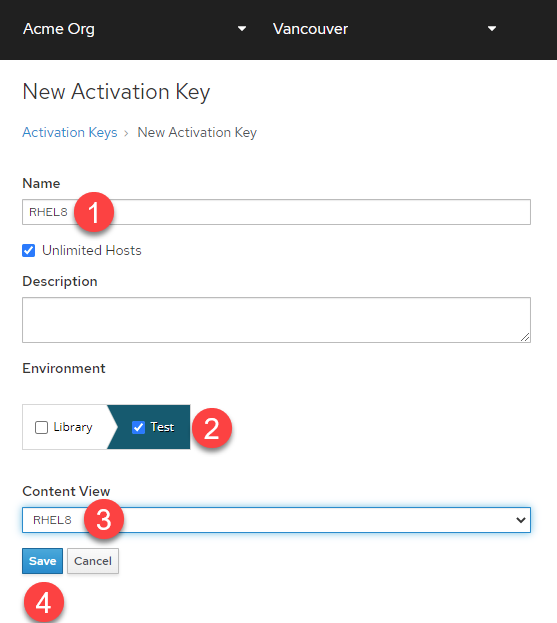
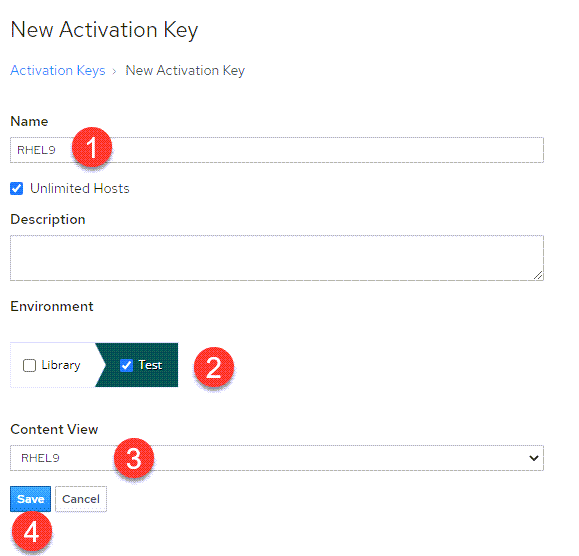
another update

diff --git a/satellite-basics/08-installsoftware/assignment.md b/satellite-basics/08-installsoftware/assignment.md
@@ -31,7 +31,11 @@ timelimit: 1
 ---
 <!-- markdownlint-disable MD033 -->
 
-> preamble on why we're using host collections
+We'll install software on our hosts using a Host Collection.
+
+A host collection is a group of content hosts. This feature enables you to perform the same action on multiple hosts at once. These actions can include the installation, removal, and update of packages and errata, change of assigned life cycle environment, and change of Content View. You can create host collections to suit your requirements, and those of your company. For example, group hosts in host collections by function, department, or business unit.
+
+For more information on Host Collections, please see [Configuring Host Collections](https://access.redhat.com/documentation/en-us/red_hat_satellite/6.11/html/managing_hosts/configuring_host_collections_managing-hosts).
 
 First we'll create a Host Collection. Click on `Host Collections` in the menu.
 
@@ -60,7 +64,7 @@ Select the hosts we want to install `tmux` on, then click `Add Selected`.
 
 ![add selected](../assets/hcaddrhel9hosts.png)
 
-You'll be taken back to the `Host Collections` menu. Click on the host collection we just created.
+Go back to the `Host Collections` menu. Click on the host collection we just created.
 
 ![click on tmux installation](../assets/clickontmuxinstallation.png)
 
@@ -89,5 +93,6 @@ When the installation has completed, click on the terminal of `rhel1` or `rhel2`
 ```bash
 tmux
 ```
+tmux is a terminal multiplexer. It lets you switch easily between several programs in one terminal, detach them (they keep running in the background) and reattach them to a different terminal. [tmux documentation is available here](https://github.com/tmux/tmux/wiki).
 
 ![tmux](../assets/2022-08-10_09-02-46.gif)

diff --git a/satellite-basics/05-activationkey/assignment.md b/satellite-basics/05-activationkey/assignment.md
@@ -31,7 +31,11 @@ timelimit: 2400
 ---
 <!-- markdownlint-disable MD033 -->
 
-An Activation Key is required to register a host to Satellite. To create one, navigate to the `Activation Keys` menu.
+Activation keys provide a method to automate system registration and subscription attachment. You can create multiple keys and associate them with different environments and Content Views. For example, you might create a basic activation key with a subscription for Red Hat Enterprise Linux workstations and associate it with Content Views from a particular environment.
+
+You can use activation keys during content host registration to improve the speed, simplicity and consistency of the process. Note that activation keys are used only when hosts are registered. If changes are made to an activation key, it is applicable only to hosts that are registered with the amended activation key in the future. The changes are not made to existing hosts.
+
+To create an activation key, navigate to the `Activation Keys` menu.
 
 ![akmenu](../assets/akmenu.png)
 
@@ -40,5 +44,7 @@ Click on `Create Activation Key`.
 ![createak](../assets/createak.png)
 
 We'll name this activation key `RHEL9`, select the `Test` environment, select the `RHEL9` content view and then click `save`.
+
+> __NOTE__: The name of the activation key will be used in the next step of this lab to add hosts. The names must match or the hosts will not be registered.
 
 ![akcreation](../assets/akcreation.png)

diff --git a/satellite-basics/09-conclusion/assignment.md b/satellite-basics/09-conclusion/assignment.md
@@ -1,0 +1,37 @@
+---
+slug: conclusion
+type: challenge
+title: Conclusion
+teaser: Yay we've reached the end.
+tabs:
+- title: Satellite Server
+  type: terminal
+  hostname: satellite
+- title: Satellite Web UI
+  type: external
+  url: https://satellite.${_SANDBOX_ID}.instruqt.io
+- title: rhel1
+  type: terminal
+  hostname: rhel1
+- title: rhel1 Web Console
+  type: external
+  url: https://rhel1.${_SANDBOX_ID}.instruqt.io:9090
+- title: rhel2
+  type: terminal
+  hostname: rhel2
+- title: rhel2 Web Console
+  type: external
+  url: https://rhel2.${_SANDBOX_ID}.instruqt.io:9090
+difficulty: basic
+timelimit: 1
+---
+<!-- markdownlint-disable MD033 -->
+
+You've reached the conclusion of this lab.
+
+For more information on Red Hat Satellite, please visit the [Red Hat Satellite landing page](https://www.redhat.com/en/technologies/management/satellite).
+
+Here are some handy links to other tasks you can perform with Red Hat Satellite.
+
+* [Learn how to apply RHEL System Roles with Red Hat Satellite](https://www.redhat.com/en/blog/satellite-host-configuration-rhel-system-roles-powered-ansible). This operation can be performed in this lab.
+* [Use Satellite to perform convert2rhel bulk operations](https://access.redhat.com/documentation/en-us/red_hat_satellite/6.11/html/managing_content/converting-a_host-with-convert2rhel_content-management). This operation cannot be performed in this lab since there are no non-rhel hosts.

diff --git a/satellite-basics/04-contentview/assignment.md b/satellite-basics/04-contentview/assignment.md
@@ -31,6 +31,12 @@ timelimit: 2400
 ---
 <!-- markdownlint-disable MD033 -->
 
+In this challenge we'll create a Content View. Red Hat Satellite uses Content Views to create customized repositories from the repositories. You can use Content Views to define which software versions a particular environment uses. For example, a Production environment might use a Content View containing older package versions, while a Development environment might use a Content View containing newer package versions.
+
+Since this is a basic introduction to Satellite, we will only create a Content View for the purpose of providing content to RHEL hosts, without regard for Test, Production lifecycle use cases.
+
+To learn more about Content Views and how to use them to manage content for different lifecycle environments, please see [Managing Content Views](https://access.redhat.com/documentation/en-us/red_hat_satellite/6.11/html/managing_content/managing_content_views_content-management) in Satellite documentation.
+
 Click on `Content Views`.
 
 ![contentview](../assets/contentview.png)

diff --git a/satellite-basics/06-registerhost/assignment.md b/satellite-basics/06-registerhost/assignment.md
@@ -33,7 +33,7 @@ timelimit: 2400
 
 Now we'll register the hosts `rhel1` and `rhel2` to our Satellite server. We'll use the command line interface to generate a registration command in this lab. It is also possible to generate a registration command from the Satellite WebUI but due to the limitations of DNS in this lab environment, we'll use the cli utility `hammer` to simplify the process.
 
-Click on the Satellite tab.
+Click on the `Satellite Server` tab.
 
 ![satellite tab](../assets/satellite-tab.png)
 
@@ -59,7 +59,7 @@ When your host is registered, the output will resemble something similar below.
 
 ![registered](../assets/registrationofhost.png)
 
-Repeat the process with `rhel2`.
+Register `rhel2` with the Satellite server by pasting the registration command into the CLI of `rhel2`.
 
 In the Satellite Web UI, navigate to `All Hosts` to view the newly registered host.
 

diff --git a/satellite-basics/07-updateerratum/assignment.md b/satellite-basics/07-updateerratum/assignment.md
@@ -73,3 +73,11 @@ To return to the job status page, click `Back to Job`.
 When the job is complete, the page will look like this.
 
 ![complete job status](../assets/completejobstatus.png)
+
+Go to Hosts > All Hosts.
+
+![all hosts](../assets/allhosts.png)
+
+All hosts managed by Satellite should display in a green font signifying all hosts are up to date and there are no errors logged.
+
+![green](../assets/green.png)

diff --git a/satellite-basics/02-syncrepos/assignment.md b/satellite-basics/02-syncrepos/assignment.md
@@ -56,4 +56,4 @@ Expand the menu widgets to see a detailed report on the sync status.
 
 ![syncstatusdetailed](../assets/syncstatusdetailed.png)
 
->_NOTE:_ The BaseOS and AppStream repos take approximately 15 minutes to synchronize.
+>_NOTE:_ The BaseOS and AppStream repos take approximately 5 minutes to synchronize.
